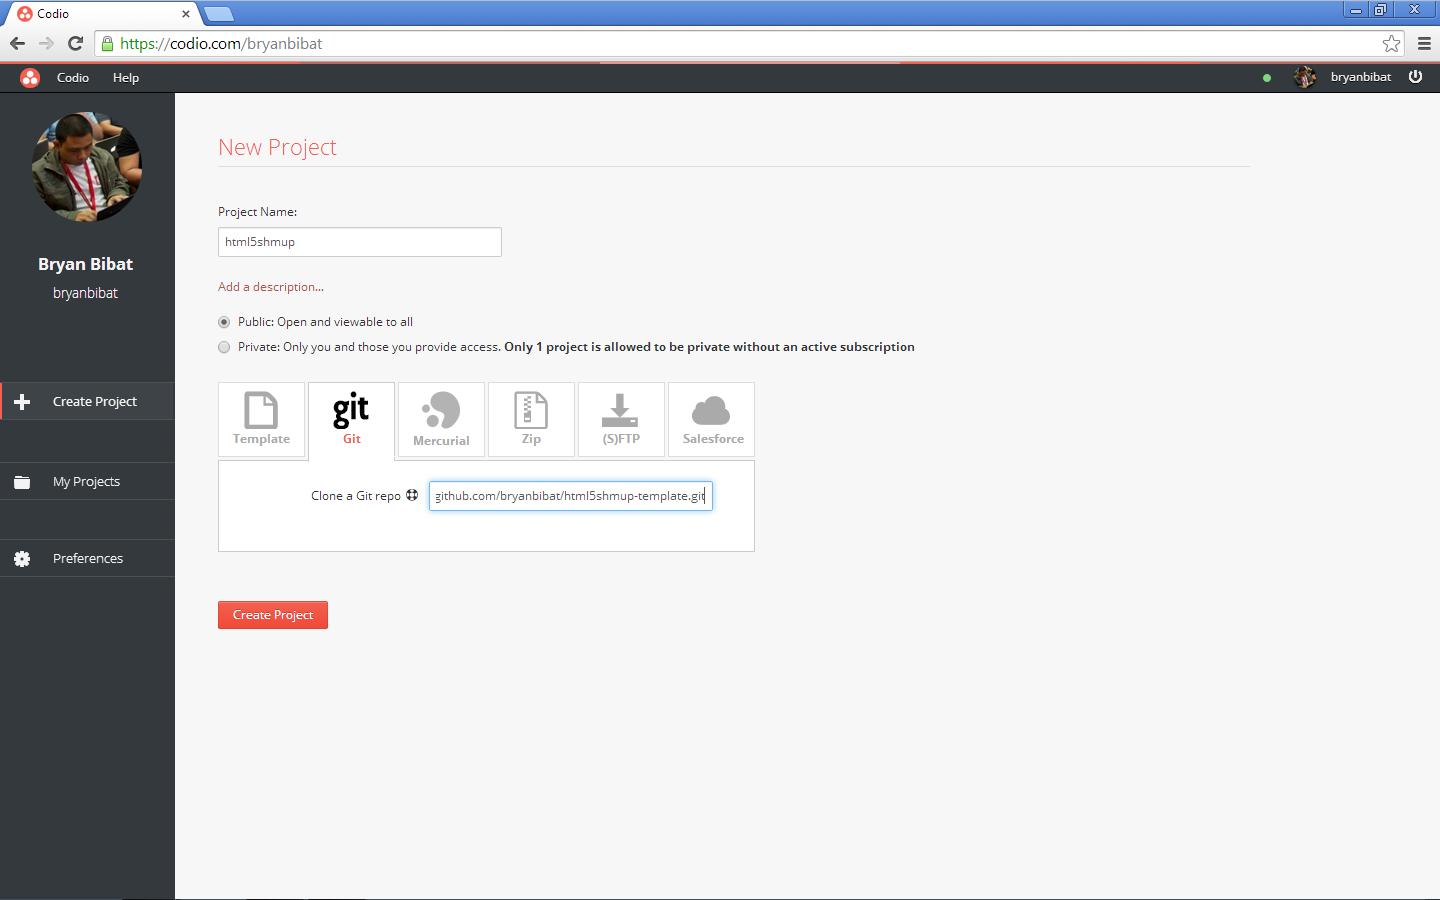
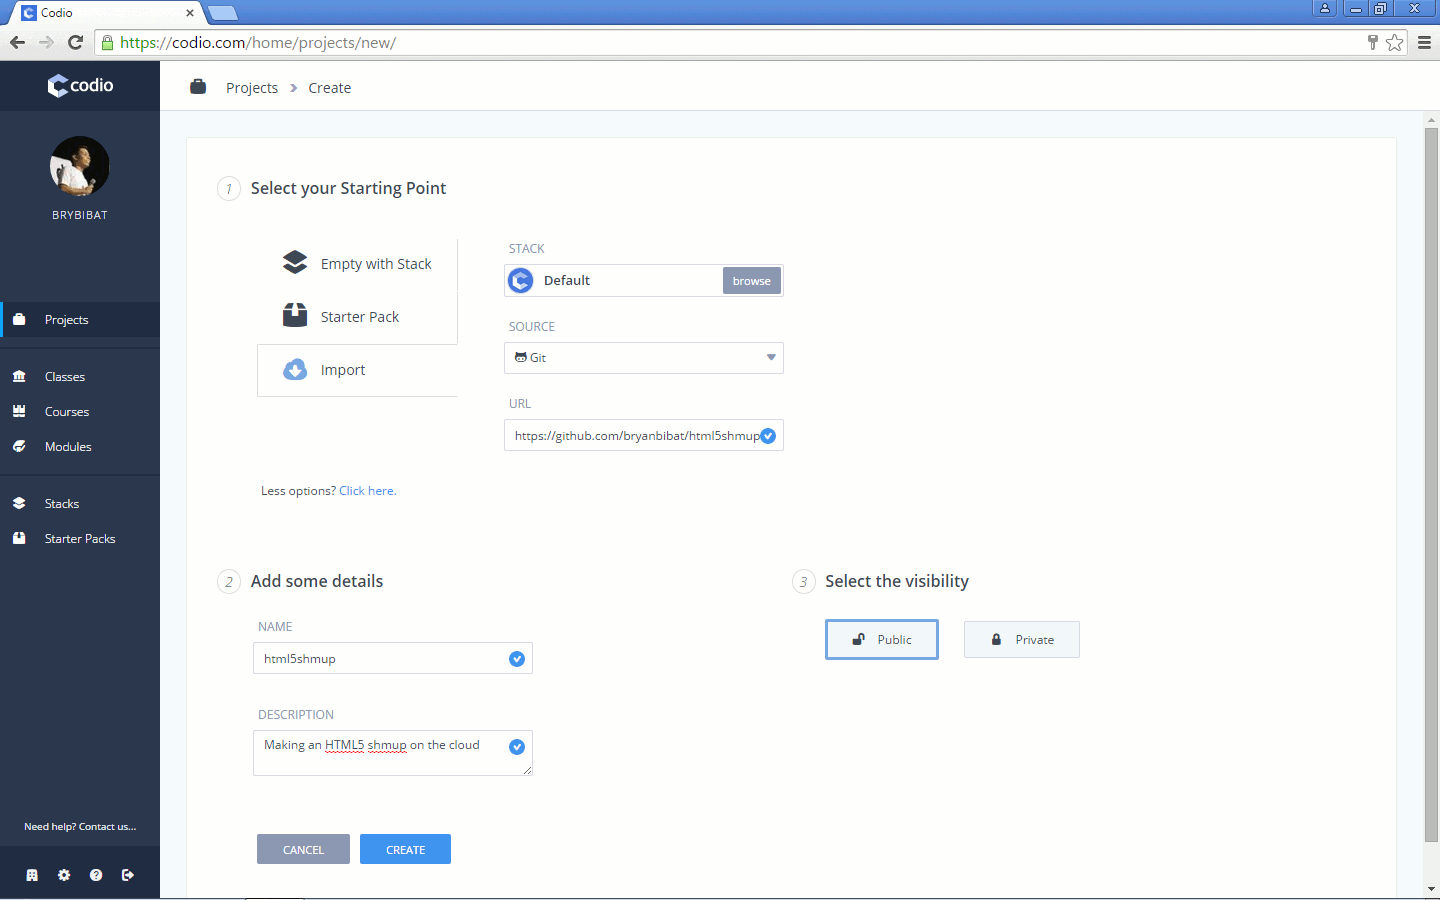
Update Codio steps

diff --git a/manuscript/appendix.md b/manuscript/appendix.md
@@ -128,7 +128,7 @@ We'll run through the steps of setting up two types development environment: one
 ### Codio + Basic Template
 
 1. Sign-up for Codio by filling out the form at [https://codio.com/p/signup](https://codio.com/p/signup).
-2. At the dashboard, click "Create Project". Fill out the Project Name and choose Git with the Git repo being the template, [https://github.com/bryanbibat/html5shmup-template.git](https://github.com/bryanbibat/html5shmup-template.git), then click the "Create Project" button.
+2. At the dashboard, click "New Project". Click the more options link ("Click here"), choose Import and choose the Default stack with the Git repo being the template, [https://github.com/bryanbibat/html5shmup-template.git](https://github.com/bryanbibat/html5shmup-template.git). Fill out the project name and description then click the "Create" button.
 
     ![](images/codio_create.png)
 
@@ -136,7 +136,7 @@ We'll run through the steps of setting up two types development environment: one
 
     ![](images/codio_edit.png)
 
-4. Click the "> Project Index (static)" button/link at the header to open your game in a new tab. You can also access your game by opening the URL shown in another browser tab or window.
+4. Click the "Project Index (static)" button/link at the header to open your game in a new tab. You can also access your game by opening the URL shown in another browser tab or window.
 
     ![](images/codio_preview.png)
 
